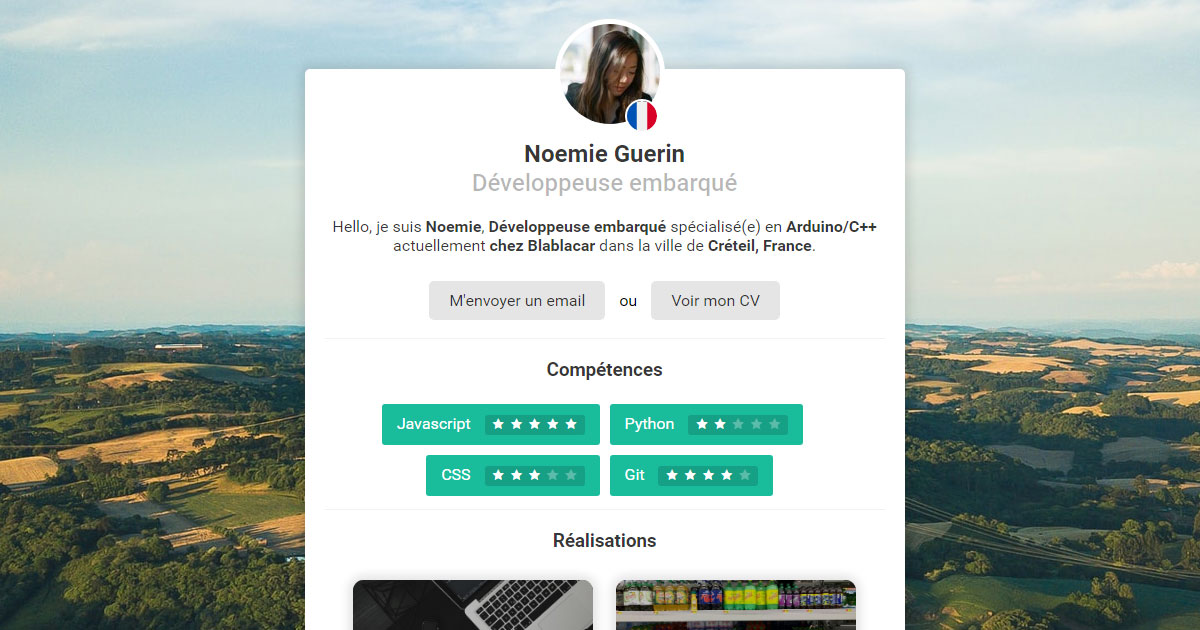
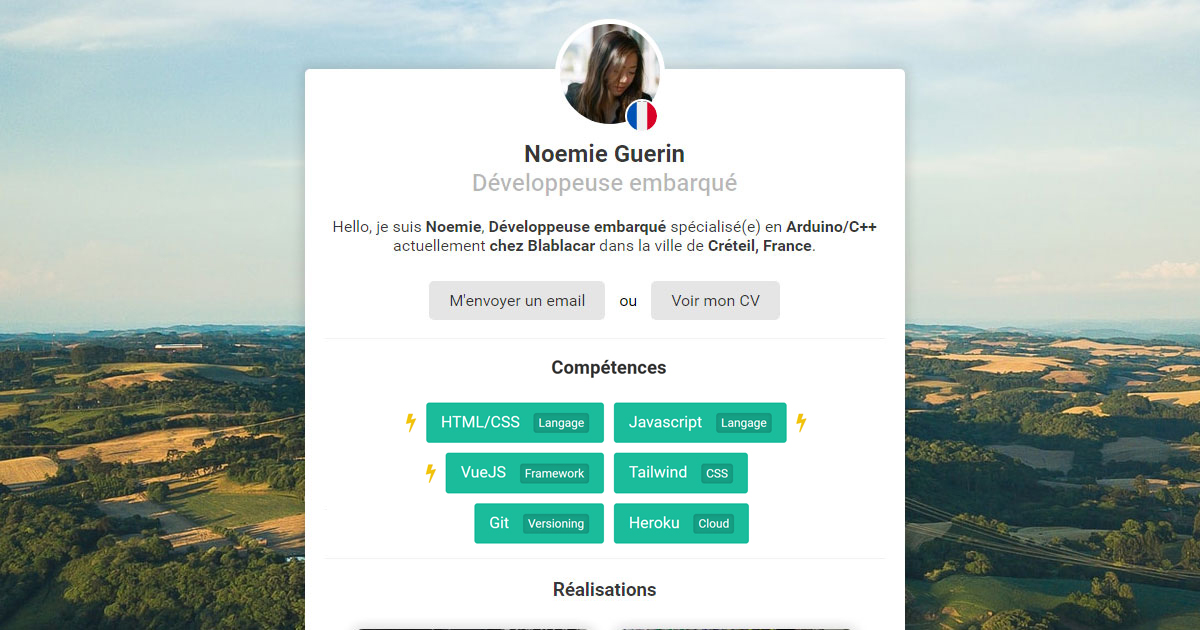
[UI] Skills - Removed stars for skills and added bolts

Changed region(s): [[0.3083, 0.6333, 0.6783, 0.8746], [0.2775, 0.9048, 0.74, 1.0], [0.4317, 0.573, 0.555, 0.6032]]

diff --git a/index.html b/index.html
@@ -15,6 +15,7 @@
         <meta name="twitter:image" content="https://nicolasbrondin.github.io/john-doe/src/img/open-graph.jpg"/>
         <meta name="twitter:description" content="Hello, je suis John Doe, développeur fullstack spécialisé React/Tailwind, actuellement en poste chez Blablacar dans la ville de Paris, France."/>
         <link href="https://fonts.googleapis.com/css2?family=Roboto:wght@300;400;500;700&display=swap" rel="stylesheet"> 
+        <link rel="stylesheet" href="https://cdnjs.cloudflare.com/ajax/libs/font-awesome/4.7.0/css/font-awesome.min.css">
         <link rel="stylesheet" href="./src/css/base.css"/>
         <link rel="stylesheet" href="./src/css/card.css"/>
         <link rel="stylesheet" href="./src/css/thumbnail.css"/>
@@ -44,37 +45,36 @@
                     <ul class="list">
                         <li>
                             <div class="skill-box">
+                                <span class="skill-favorite fa fa-bolt"></span>
+                                HTML/CSS
+                                <div class="box-well">
+                                    Langage
+                                </div>
+                            </div>
+                        </li>
+                        <li>
+                            <div class="skill-box">
+                                <span class="skill-favorite fa fa-bolt"></span>
                                 Javascript
                                 <div class="box-well">
-                                    <span><img src="./src/img/star.svg" height="12"/></span>
-                                    <span><img src="./src/img/star.svg" height="12"/></span>
-                                    <span><img src="./src/img/star.svg" height="12"/></span>
-                                    <span><img src="./src/img/star.svg" height="12"/></span>
-                                    <span><img src="./src/img/star.svg" height="12"/></span>
+                                    Langage
                                 </div>
                             </div>
                         </li>
                         <li>
                             <div class="skill-box">
-                                Python
+                                <span class="skill-favorite fa fa-bolt"></span>
+                                VueJS
                                 <div class="box-well">
-                                    <span><img src="./src/img/star.svg" height="12"/></span>
-                                    <span><img src="./src/img/star.svg" height="12"/></span>
-                                    <span disabled><img src="./src/img/star.svg" height="12"/></span>
-                                    <span disabled><img src="./src/img/star.svg" height="12"/></span>
-                                    <span disabled><img src="./src/img/star.svg" height="12"/></span>
+                                    Framework
                                 </div>
                             </div>
                         </li>
                         <li>
                             <div class="skill-box">
-                                CSS
+                                Tailwind
                                 <div class="box-well">
-                                    <span><img src="./src/img/star.svg" height="12"/></span>
-                                    <span><img src="./src/img/star.svg" height="12"/></span>
-                                    <span><img src="./src/img/star.svg" height="12"/></span>
-                                    <span disabled><img src="./src/img/star.svg" height="12"/></span>
-                                    <span disabled><img src="./src/img/star.svg" height="12"/></span>
+                                    CSS
                                 </div>
                             </div>
                         </li>
@@ -82,11 +82,15 @@
                             <div class="skill-box">
                                 Git
                                 <div class="box-well">
-                                    <span><img src="./src/img/star.svg" height="12"/></span>
-                                    <span><img src="./src/img/star.svg" height="12"/></span>
-                                    <span><img src="./src/img/star.svg" height="12"/></span>
-                                    <span><img src="./src/img/star.svg" height="12"/></span>
-                                    <span disabled><img src="./src/img/star.svg" height="12"/></span>
+                                    Versioning
+                                </div>
+                            </div>
+                        </li>
+                        <li>
+                            <div class="skill-box">
+                                Heroku
+                                <div class="box-well">
+                                    Cloud
                                 </div>
                             </div>
                         </li>

diff --git a/src/css/skill-box.css b/src/css/skill-box.css
@@ -1,4 +1,5 @@
 .skill-box {
+    position: relative;
     display: inline-block;
     box-sizing: border-box;
     background: #1abc9c;
@@ -8,17 +9,32 @@
     margin: 5px;
 }
 
+.skill-box .fa.skill-favorite {
+    position: absolute;
+    color: #f1c40f;
+    font-size: 20px;
+    top: calc(50% - 10px);
+    left: -20px;
+}
+
+.list li:nth-child(even) .skill-box .fa.skill-favorite {
+    left: initial;
+    right: -20px;
+}
+
 .box-well {
     display: inline-block;
     height: 20px;
-    width: 100px;
+    /*width: 100px;*/
+    padding: 0px 5px;
     background: #16a085;
+    box-shadow: inset 0px 0px 3px 1px rgba(0,0,0,0.1);
     vertical-align: middle;
     border-radius: 3px;
     margin-left: 10px;
     text-align: center;
     color: white;
-    font-size: 16px;
+    font-size: 12px;
     line-height: 20px;
 }
 @media screen and (max-width: 500px){
@@ -26,5 +42,9 @@
         width: 100%;
         max-width: 250px;
         text-align: center;
+    }
+    .list li:nth-child(even) .skill-box .fa.skill-favorite {
+        left: -20px;
+        right: initial;
     }
 }
